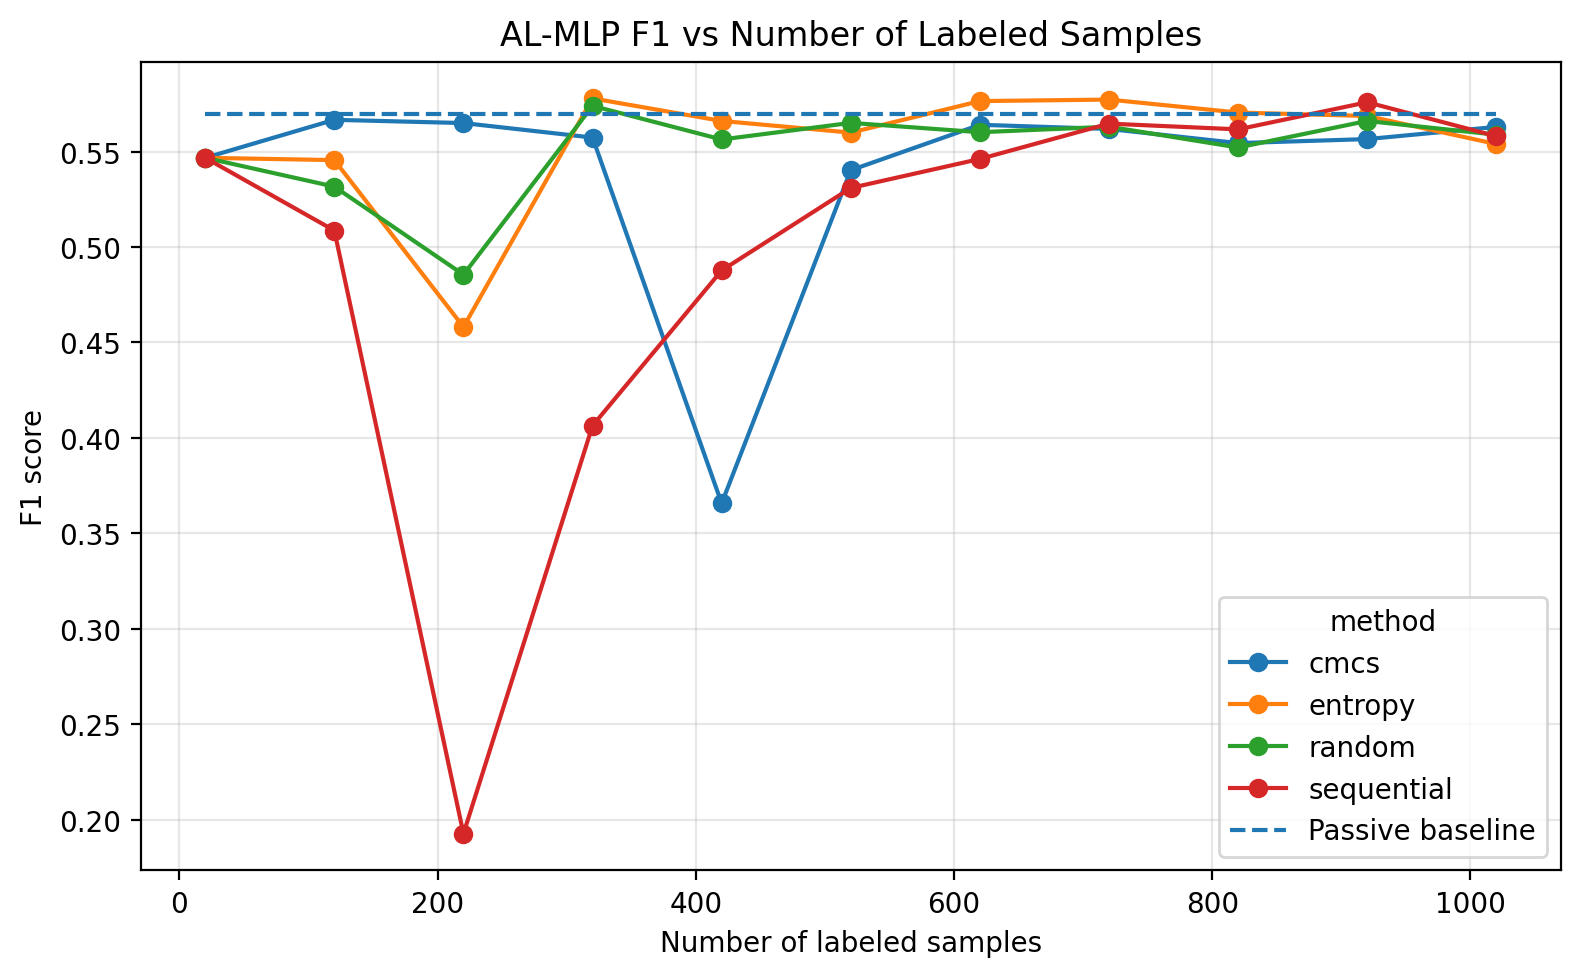
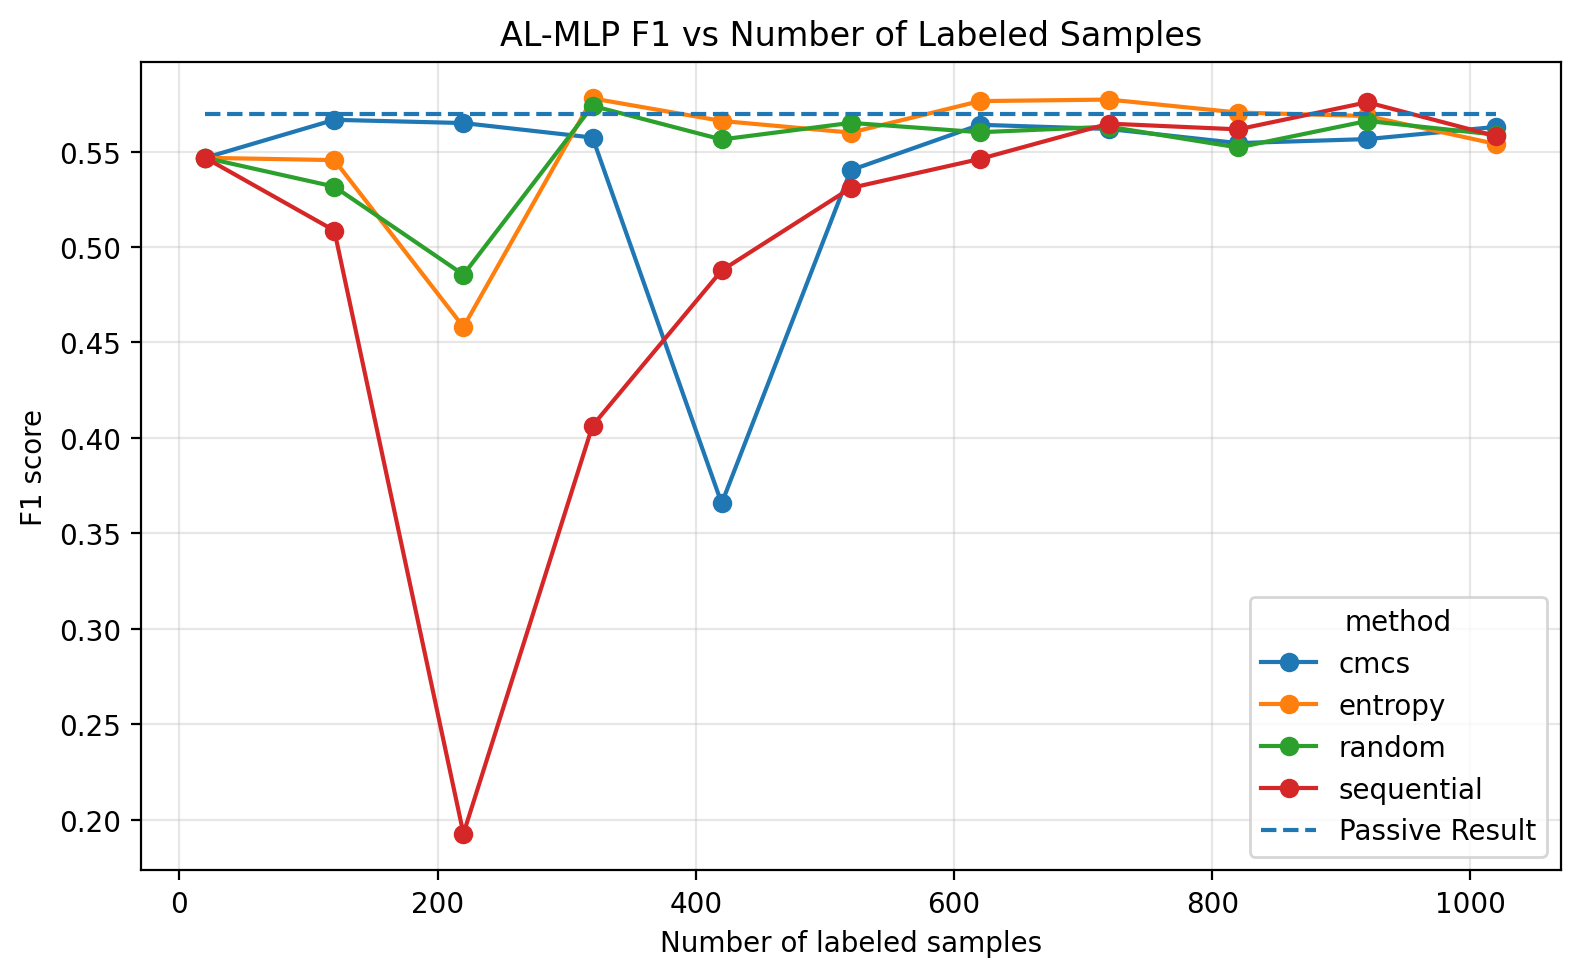
AL results

Changed region(s): [[0.7753, 0.6448, 0.9924, 0.8598], [0.8373, 0.6141, 0.9304, 0.6448]]

diff --git a/code/visual.py b/code/visual.py
@@ -321,7 +321,7 @@ def plot_al_by_model(
                 xmax=x_max,
                 linestyles="--",
                 linewidth=1.5,
-                label="Passive baseline"
+                label="Passive Result"
             )
 
         plt.title(f"{fv} F1 vs Number of Labeled Samples")
@@ -416,6 +416,7 @@ def compute_balance_partial_corr(
     illicit_col: str = "n_illicit",
     f1_col: str = "best_test_f1",
     output_path: str = "visualizations/AL_visualizations/illicit_balance_effect.csv",
+    output_path_summary: str = "visualizations/AL_visualizations/illicit_balance_summary.csv",
 ):
     """
     For each (model, method), compute:
@@ -470,9 +471,24 @@ def compute_balance_partial_corr(
     # round for readability
     for c in out.select_dtypes(include="number").columns:
         out[c] = out[c].round(3)
-
     out.to_csv(output_path, index=False)
-    return out
+
+    summary_rows = []
+    for method, sub in out.groupby(al_col):
+        vals = sub["corr_partial"].dropna().values
+
+        summary_rows.append({
+            al_col: method,
+            "mean_corr_partial": np.mean(vals),
+            "median_corr_partial": np.median(vals),
+        })
+
+    out_summary = pd.DataFrame(summary_rows)
+    for c in out_summary.select_dtypes(include="number").columns:
+        out_summary[c] = out_summary[c].round(3)
+    out_summary.to_csv(output_path_summary, index=False)
+
+    return out, out_summary
 
 def run_all_visualizations():
     """
@@ -512,7 +528,9 @@ def run_all_visualizations():
     compute_balance_partial_corr(
         csv_path=curves_csv,
         output_path=AL_VIS_DIR / FILES["illicit_balance_effect"],
+        output_path_summary=AL_VIS_DIR / FILES["illicit_balance_summary"],
     )
+
 
     plot_illicit_ratio(
         csv_path=curves_csv,
